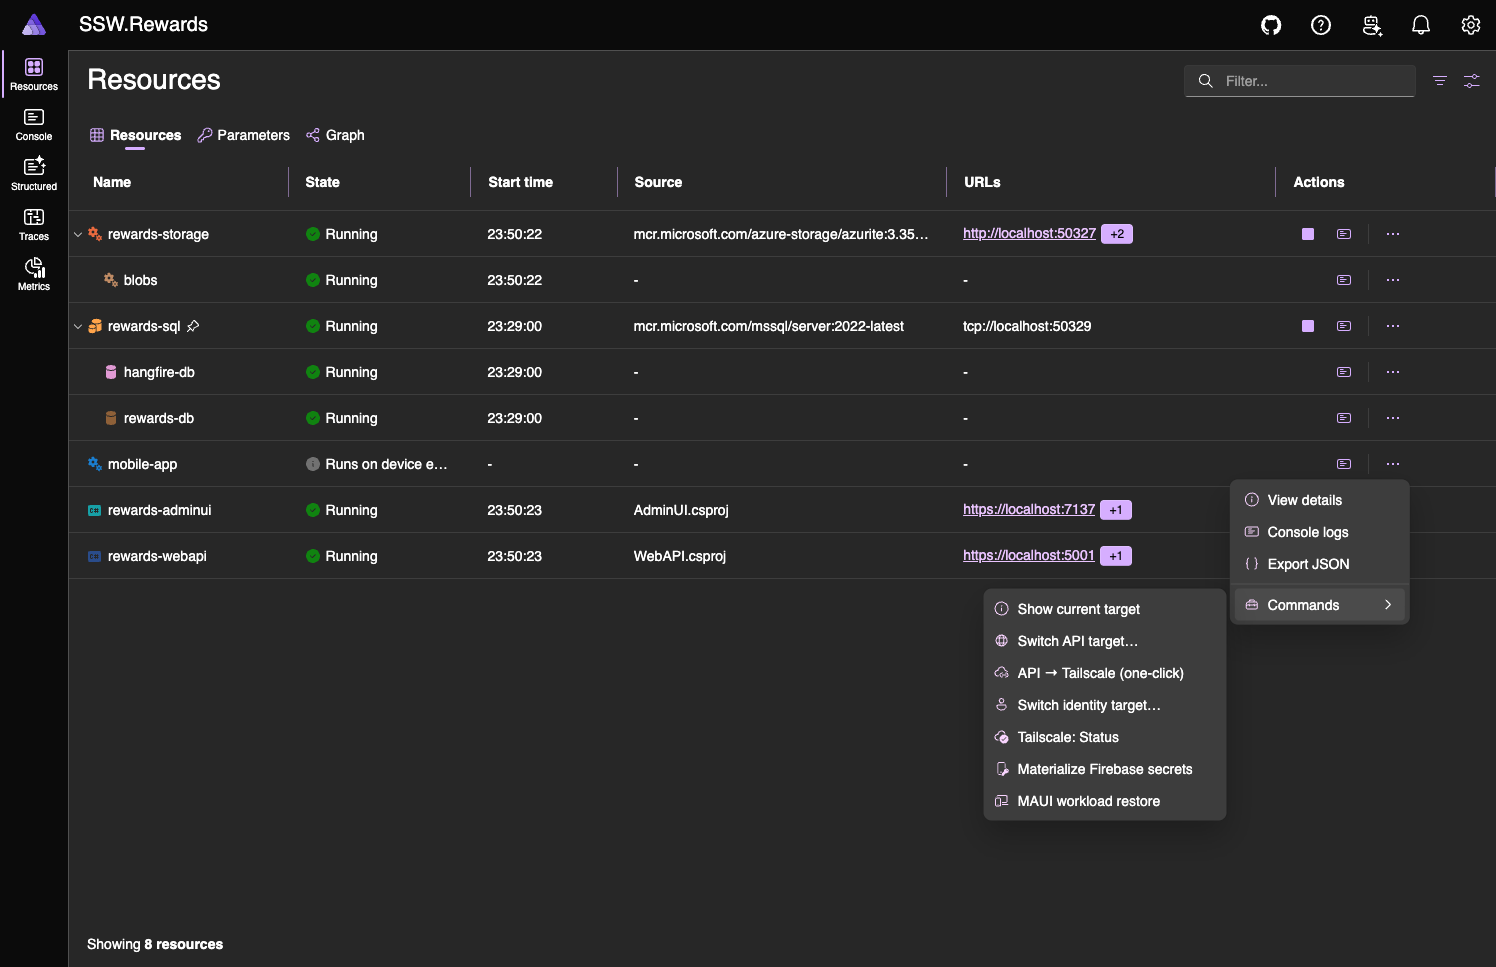
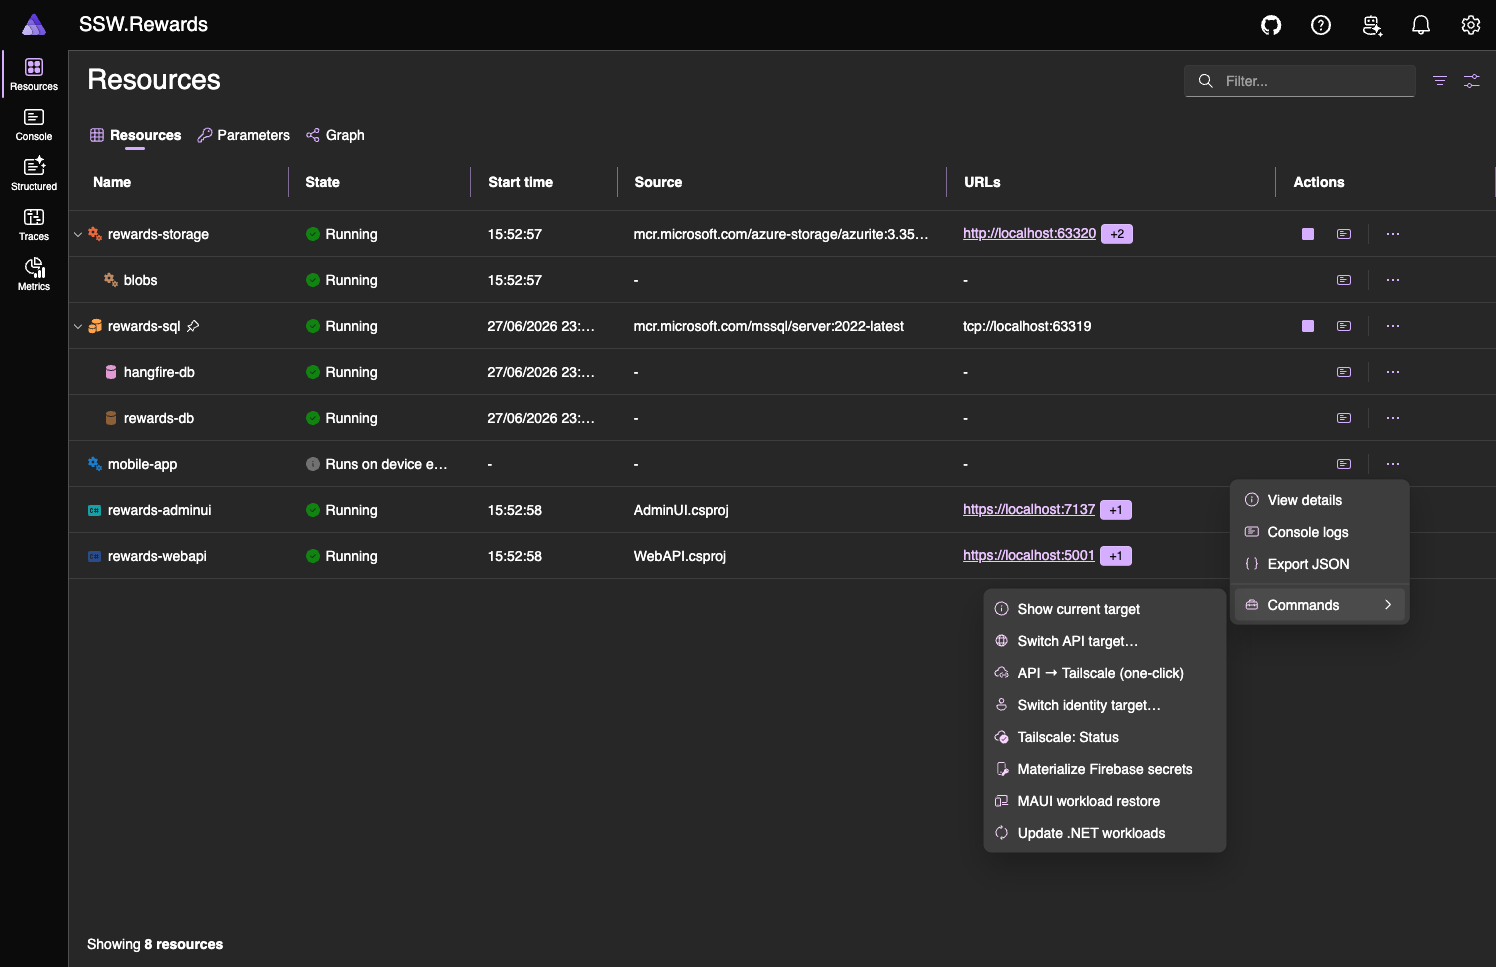
✨ Add dashboard tooling commands (Aspire CLI, doctor, workload update)
Add three dashboard commands and document them:
- rewards-sql ▸ Tools: Install/upgrade Aspire CLI (dotnet tool update aspire --global)
- rewards-sql ▸ Tools: Diagnose (aspire doctor)
- mobile-app ▸ Update .NET workloads (dotnet workload update)

Refresh the mobile-app commands screenshot and add a rewards-sql commands
screenshot; update Aspire-Local-Dev.md and the setup-admin-api skill.

Changed region(s): [[0.6457, 0.8376, 0.8302, 0.8997], [0.3382, 0.3723, 0.3997, 0.4343], [0.3382, 0.3102, 0.3997, 0.3413]]

diff --git a/src/AppHost/Hosts/DevCommands.cs b/src/AppHost/Hosts/DevCommands.cs
@@ -52,6 +52,15 @@ public static class DevCommands
             },
             commandOptions: new CommandOptions { IconName = "Wrench", Description = "dotnet tool update dotnet-ef -g" });
 
+        sql.WithCommand("install-aspire", "Tools: Install/upgrade Aspire CLI",
+            executeCommand: async ctx =>
+            {
+                // `tool update` installs the tool if it's missing, so this doubles as first-time install.
+                var (exit, log) = await CommandHelpers.RunProcess(ctx, "dotnet", "tool update aspire --global");
+                return exit == 0 ? CommandResults.Success() : CommandResults.Failure(log);
+            },
+            commandOptions: new CommandOptions { IconName = "Wrench", Description = "dotnet tool update aspire -g (needs ≥ 13.4.6)" });
+
         sql.WithCommand("dev-cert", "Tools: Trust dev HTTPS cert",
             executeCommand: async ctx =>
             {
@@ -59,6 +68,15 @@ public static class DevCommands
                 return exit == 0 ? CommandResults.Success() : CommandResults.Failure(log);
             },
             commandOptions: new CommandOptions { IconName = "Certificate", Description = "dotnet dev-certs https --trust" });
+
+        sql.WithCommand("aspire-doctor", "Tools: Diagnose (aspire doctor)",
+            executeCommand: async ctx =>
+            {
+                // Read-only environment check (SDK / Docker / cert / CLI version) — output lands in the log.
+                var (exit, log) = await CommandHelpers.RunProcess(ctx, "aspire", "doctor --non-interactive --nologo");
+                return exit == 0 ? CommandResults.Success() : CommandResults.Failure(log);
+            },
+            commandOptions: new CommandOptions { IconName = "Stethoscope", Description = "aspire doctor — verify SDK, Docker, dev cert, CLI version" });
 
         return sql;
     }

diff --git a/src/AppHost/Hosts/MobileHost.cs b/src/AppHost/Hosts/MobileHost.cs
@@ -125,6 +125,14 @@ public static class MobileHostExtensions
             },
             commandOptions: Always("PhoneLaptop", "dotnet workload restore (iOS/Android prereqs)"));
 
+        mobile.WithCommand("mobile-workload-update", "Update .NET workloads",
+            executeCommand: async ctx =>
+            {
+                var (exit, log) = await CommandHelpers.RunProcess(ctx, "dotnet", "workload update");
+                return exit == 0 ? CommandResults.Success() : CommandResults.Failure(log);
+            },
+            commandOptions: Always("ArrowSync", "dotnet workload update — upgrade installed workloads (MAUI etc.)"));
+
         return mobile;
     }
 }

diff --git a/_docs/Aspire-Local-Dev.md b/_docs/Aspire-Local-Dev.md
@@ -44,7 +44,7 @@ restarts. WebAPI + AdminUI start once SQL is healthy; migrations apply on WebAPI
 ## Dashboard commands
 The dashboard groups the local-dev chores under two resources (Actions ▸ Commands):
 
-<img src="imgs/aspire-mobile-commands.png" alt="mobile-app Actions menu expanded showing the Commands flyout with Show current target, Switch API target, API to Tailscale, Switch identity target, Tailscale Status, Materialize Firebase secrets and MAUI workload restore" width="900" />
+<img src="imgs/aspire-mobile-commands.png" alt="mobile-app Actions menu expanded showing the Commands flyout with Show current target, Switch API target, API to Tailscale, Switch identity target, Tailscale Status, Materialize Firebase secrets, MAUI workload restore and Update .NET workloads" width="900" />
 
 Commands that need input (e.g. **Switch API target…**) open a prompt right in the dashboard. Target
 pickers are **dropdowns** (local / staging / prod / tailscale) — no typos, valid by construction:
@@ -52,8 +52,13 @@ pickers are **dropdowns** (local / staging / prod / tailscale) — no typos, val
 <img src="imgs/aspire-command-dialog.png" alt="Switch mobile API dialog with a Target dropdown expanded showing the options local, staging, prod and tailscale" width="900" />
 
 **On `rewards-sql` (database + tooling):**
+
+<img src="imgs/aspire-sql-commands.png" alt="rewards-sql Actions menu expanded showing the Commands flyout with DB Apply migrations, DB Add migration, Tools Install/upgrade dotnet-ef, Tools Install/upgrade Aspire CLI, Tools Trust dev HTTPS cert and Tools Diagnose aspire doctor" width="900" />
+
 - **DB: Apply migrations** / **Add migration…** — EF update / add (prompts for the name)
 - **Tools: Install/upgrade dotnet-ef**, **Trust dev HTTPS cert**
+- **Tools: Install/upgrade Aspire CLI** — `dotnet tool update aspire --global` (installs if missing)
+- **Tools: Diagnose (aspire doctor)** — `aspire doctor` health check (CLI / SDK / Docker / dev-cert)
 
 **On `mobile-app` (a virtual, lifetime-less resource for the MAUI app — Aspire doesn't run it,
 but it gives the mobile chores a home):**
@@ -66,6 +71,7 @@ but it gives the mobile chores a home):**
 - **Materialize Firebase secrets** — writes `google-services.json` + `GoogleService-Info.plist`
   from the secret parameters (these files are git-ignored; only `*.template` is committed)
 - **MAUI workload restore** — `dotnet workload restore` for the iOS/Android prereqs
+- **Update .NET workloads** — `dotnet workload update` (keep MAUI/iOS/Android workloads current)
 
 ## Switching dev targets — the `rewards-dev` command
 Stop hand-editing `Constants.cs` and the AdminUI `appsettings`. One command switches the

diff --git a/.agents/skills/setup-admin-api/SKILL.md b/.agents/skills/setup-admin-api/SKILL.md
@@ -73,11 +73,11 @@ the Azurite blob string, Firebase/SendGrid/SMTP, and `SigningAuthority` as env v
 ## Dashboard commands
 
 **On `rewards-sql`** (DB + tooling): DB: Apply migrations / Add migration… · Install dotnet-ef ·
-Trust dev HTTPS cert.
+Install/upgrade Aspire CLI · Trust dev HTTPS cert · Diagnose (aspire doctor).
 
 **On `mobile-app`** (virtual lifetime-less resource for the MAUI app): Show current target ·
 Switch API / identity target… · API → Tailscale (one-click) · Tailscale: Status · Materialize
-Firebase secrets · MAUI workload restore. The switch commands shell out to `rewards-dev`.
+Firebase secrets · MAUI workload restore · Update .NET workloads. The switch commands shell out to `rewards-dev`.
 
 ## Switch which identity / API the apps use
 
